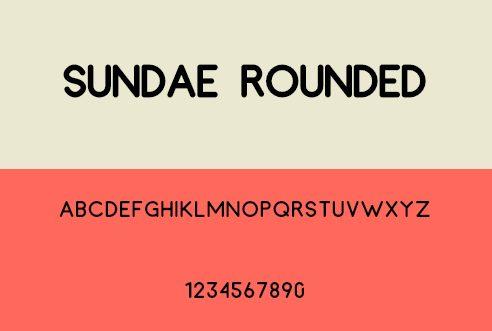
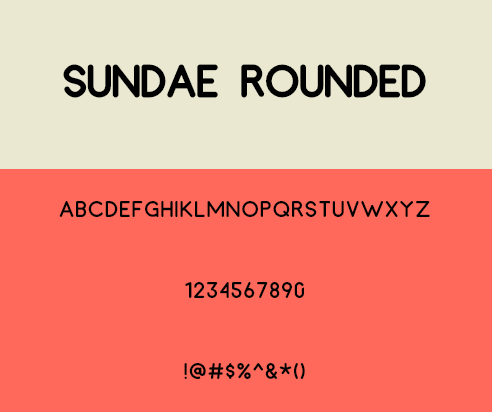
Adds upper keyrow symbols

diff --git a/build.js b/build.js
@@ -22,9 +22,11 @@ async function createSvgFont() {
     const files = await fs.promises.readdir('glyphs');
     for (const file of files) {
         const glyph = fs.createReadStream(`glyphs/${file}`);
+        const unicodeMatch = file.match(/^u([\da-f]+)/)
+        const unicode = unicodeMatch ? String.fromCharCode(parseInt(unicodeMatch[1], 16)) : file.charAt(0);
         glyph.metadata = {
-            unicode: [file.charAt(0)],
-            name: file.charAt(0),
+            unicode: [unicode],
+            name: unicode,
         };
         fontStream.write(glyph);
     }

diff --git a/preview.html b/preview.html
@@ -40,6 +40,7 @@
         <h1>sundae rounded</h1>
         <p>abcdefghiklmnopqrstuvwxyz</p>
         <p>1234567890</p>
+        <p>!@#$%^&amp;*()</p>
     </div>
 </body>
 
